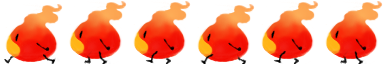
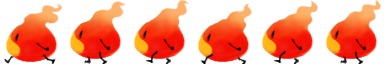
画像の差し替え 火の揺らぎのアニメーションに変更
by長谷川修一

diff --git a/TeamWorkGame/TeamWorkGame/TeamWorkGame/Actor/Player.cs b/TeamWorkGame/TeamWorkGame/TeamWorkGame/Actor/Player.cs
@@ -35,6 +35,7 @@ namespace TeamWorkGame.Actor
         private int fireMaxNum;                    //火の総数
         private int fireNum;                        //持っている火の数
         private Animation runAnime;             //走るアニメ
+        private Animation standAnime;
 
         private AnimationPlayer animePlayer;    //アニメ再生器
         private SpriteEffects flip = SpriteEffects.None;
@@ -89,6 +90,7 @@ namespace TeamWorkGame.Actor
             fireMaxNum = Parameter.FireMaxNum;
             fireNum = fireMaxNum;
             runAnime = new Animation(Renderer.GetTexture("playerAnime"), 0.1f, true);
+            standAnime = new Animation(Renderer.GetTexture("standAnime"), 0.1f, true);
             isOnBalloon = false;
         }
 
@@ -329,7 +331,9 @@ namespace TeamWorkGame.Actor
         {
             if (velocity.X == 0)
             {
-                renderer.DrawTexture(name, position * cameraScale + offset, cameraScale, alpha);
+                animePlayer.PlayAnimation(standAnime);
+                animePlayer.Draw(gameTime, renderer, position * cameraScale + offset, flip, cameraScale);
+                //renderer.DrawTexture(name, position * cameraScale + offset, cameraScale, alpha);
             }
             else
             {
